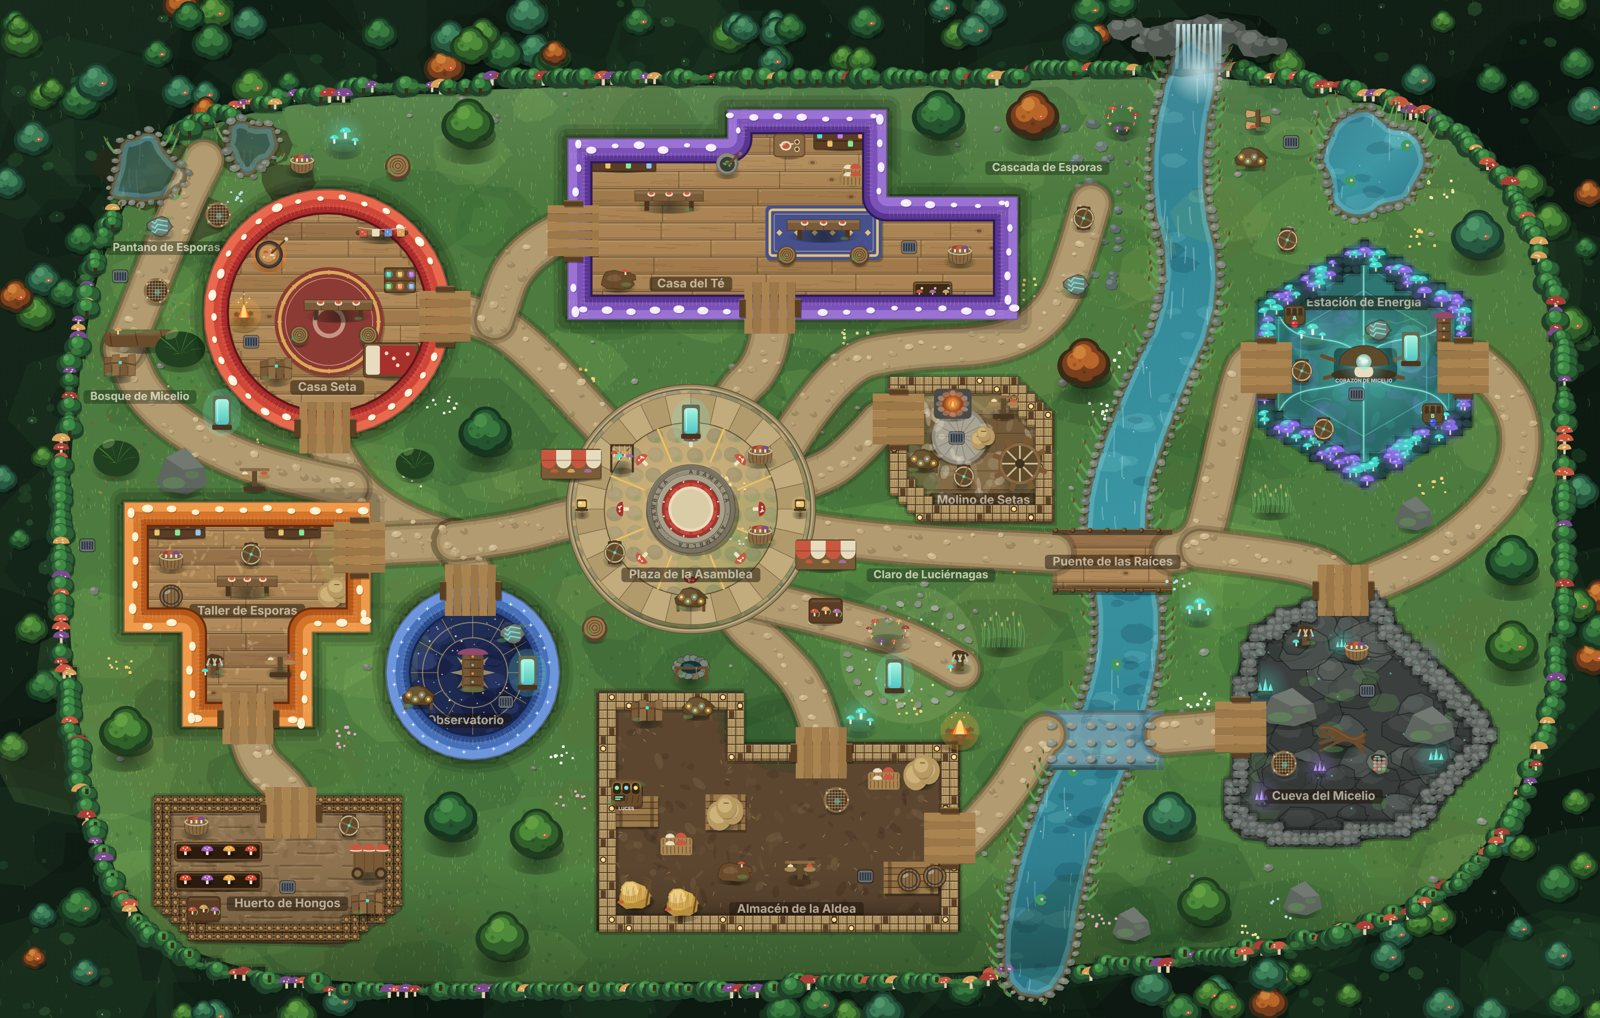
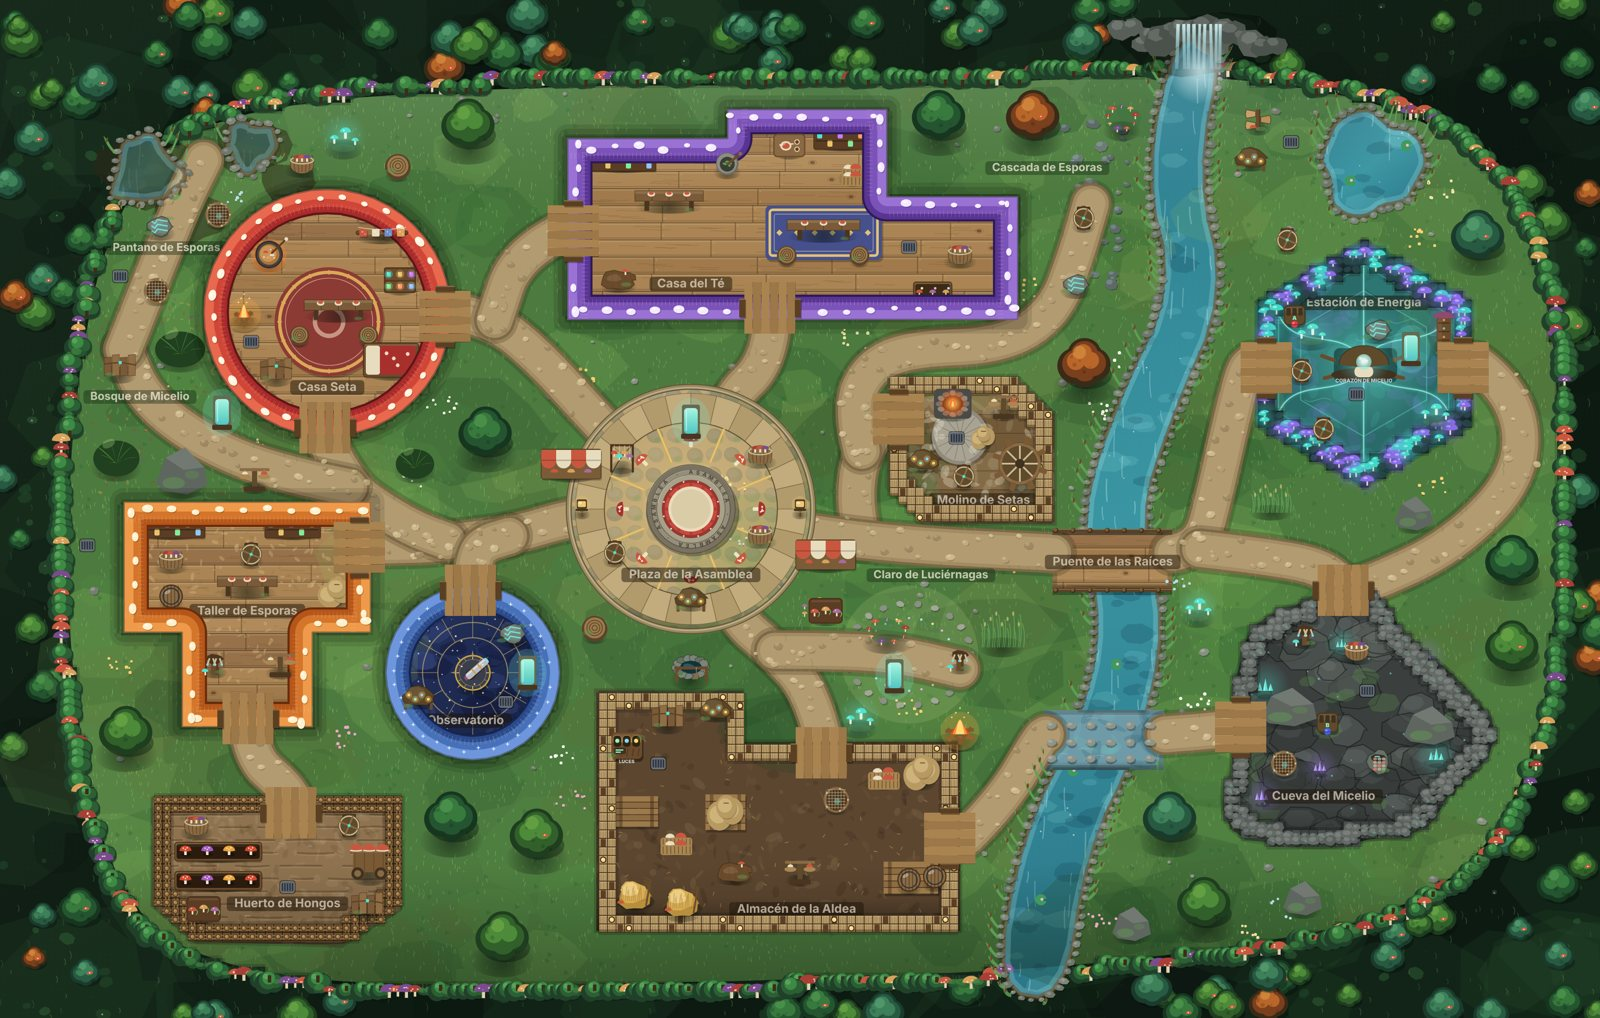
Micelaria: telescopio, luces del almacén, reactor repartido, cueva limpia, tronco fuera y caminos unidos
- Observatorio: telescopio sobre plataforma de latón en lugar del cajón central
- Almacén: cuadro de luces en la esquina superior izquierda y rejilla a su lado
- Cueva: sin raíces, solo rocas y cristales
- Reactor: consola A en la Estación (Corazón de Micelio), consola B en la Cueva
- Bosque: fuera el tronco que cerraba el sendero
- Caminos: un solo camino oeste-este y ramales que se unen de lado; el molino y el claro salen de otro camino en vez de salir pegados de la plaza

Claude-Session: https://claude.ai/code/session_01BD2C1g9WBXhTqNLUKseF5E

diff --git a/src/lib/game/micelariaVillage.js b/src/lib/game/micelariaVillage.js
@@ -389,6 +389,29 @@ export const VILLAGE_OBST = {
       for (const [dx, dy] of [[-5, -8], [4, -9], [0, -5]]) { c.beginPath(); c.arc(px + dx, dy, 1.8, 0, TAU); c.fill(); }
     }
   },
+  telescope(c, w, h) { // telescopio del observatorio: plataforma de latón, montura y tubo largo apuntando al cielo
+    const R = Math.min(w, h) * 0.47;
+    c.fillStyle = 'rgba(0,0,0,.32)'; c.beginPath(); c.ellipse(3, 6, R, R * 0.92, 0, 0, TAU); c.fill();
+    c.fillStyle = '#3b3f4d'; c.beginPath(); c.arc(0, 0, R, 0, TAU); c.fill(); // plataforma
+    c.strokeStyle = '#c9a24a'; c.lineWidth = 3.5; c.beginPath(); c.arc(0, 0, R - 2, 0, TAU); c.stroke();
+    c.strokeStyle = 'rgba(201,162,74,.5)'; c.lineWidth = 1.5; c.beginPath(); c.arc(0, 0, R * 0.74, 0, TAU); c.stroke();
+    for (let i = 0; i < 12; i++) { // marcas de grados
+      const a = (i / 12) * TAU; c.strokeStyle = 'rgba(255,236,170,.75)'; c.lineWidth = i % 3 ? 1 : 2;
+      c.beginPath(); c.moveTo(Math.cos(a) * R * 0.74, Math.sin(a) * R * 0.74); c.lineTo(Math.cos(a) * R * 0.9, Math.sin(a) * R * 0.9); c.stroke();
+    }
+    c.fillStyle = '#6a4b2c'; c.beginPath(); c.arc(-R * 0.12, R * 0.1, R * 0.26, 0, TAU); c.fill(); // montura
+    c.strokeStyle = 'rgba(30,18,8,.6)'; c.lineWidth = 2; c.stroke();
+    c.save(); c.translate(-R * 0.12, R * 0.1); c.rotate(-0.72); // tubo
+    c.fillStyle = 'rgba(0,0,0,.25)'; rr(c, -R * 0.2, -R * 0.15, R * 1.55, R * 0.4, 6); c.fill();
+    c.fillStyle = '#b9bcc6'; rr(c, -R * 0.28, -R * 0.2, R * 1.5, R * 0.38, 6); c.fill();
+    c.fillStyle = 'rgba(255,255,255,.55)'; rr(c, -R * 0.2, -R * 0.15, R * 1.34, R * 0.08, 3); c.fill();
+    c.fillStyle = '#c9a24a'; c.fillRect(R * 0.2, -R * 0.2, R * 0.1, R * 0.38); c.fillRect(R * 0.62, -R * 0.2, R * 0.1, R * 0.38);
+    c.fillStyle = '#7fe3ee'; c.beginPath(); c.ellipse(R * 1.2, -R * 0.01, R * 0.06, R * 0.17, 0, 0, TAU); c.fill(); // lente
+    c.fillStyle = '#8f4a6d'; rr(c, -R * 0.4, -R * 0.12, R * 0.14, R * 0.24, 3); c.fill(); // ocular
+    c.restore();
+    c.fillStyle = 'rgba(255,244,200,.95)'; // estrellitas sobre la plataforma
+    for (const [px, py] of [[0.55, -0.45], [-0.6, -0.35], [0.1, 0.62]]) { c.beginPath(); c.arc(px * R, py * R, 1.8, 0, TAU); c.fill(); }
+  },
   shelf(c, w, h) { // estante de la despensa con frascos y cestas
     wood(c, -w / 2, -h / 2, w, h, '#5a3d24', 4);
     c.fillStyle = 'rgba(0,0,0,.3)'; c.fillRect(-w / 2 + 4, 2, w - 8, 3);
